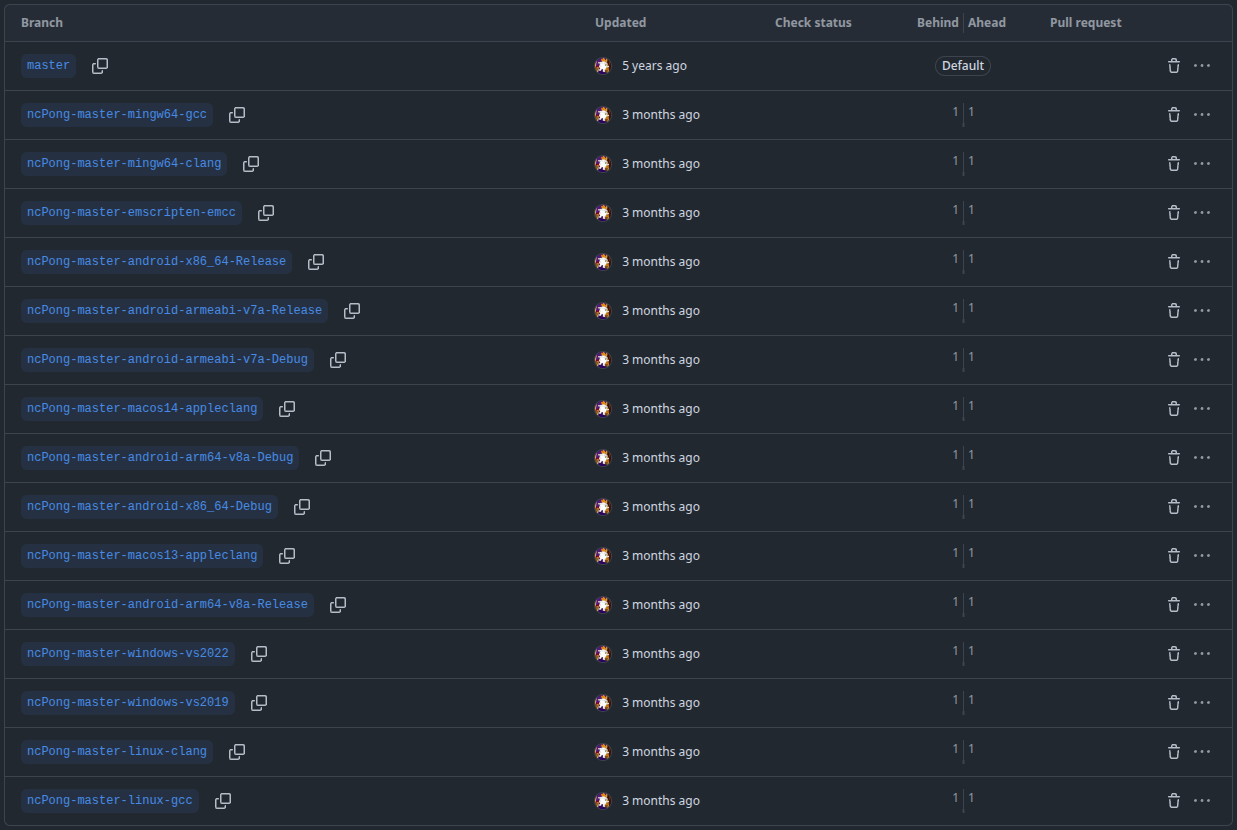
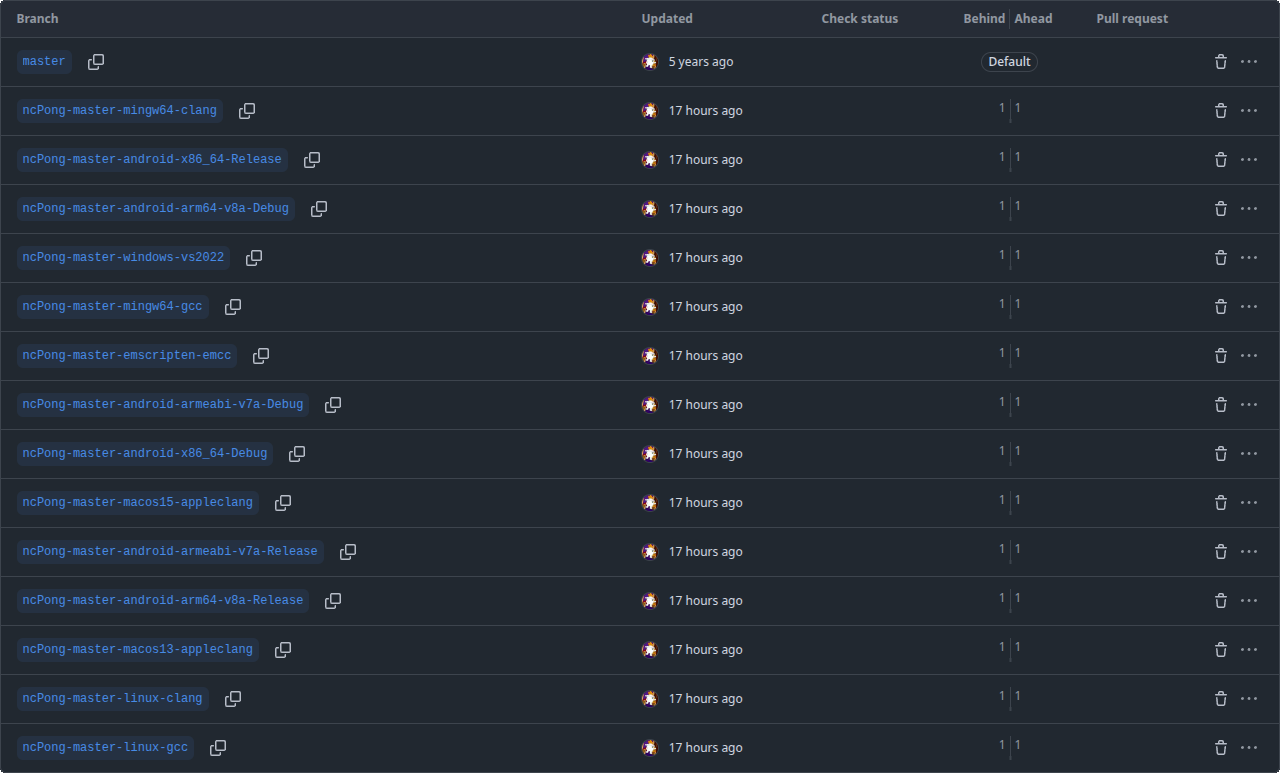
Add a new slide about smart pointer internals
- Update the continuous integration diagram and screenshot
- Add some new presenter notes
- Minor changes to the README and to some slides
- Update Slidev version in package.json

diff --git a/slides.md b/slides.md
@@ -105,6 +105,12 @@ layout: cover
 </figure>
 </div>
 
+<!-- When updating this presentation, remember to:
+  - Update the Slidev version in `package.json`
+  - Refresh the `cloc` output (lines of code statistics)
+  - Regenerate the Git history graphs
+-->
+
 ---
 
 ## What Is the nCine? ⚙
@@ -119,7 +125,8 @@ layout: cover
 - Based on a transformation scene graph and a node hierachy (no components)
 - A _learning opportunity_, both for me and for its users
 
-<!-- But not everything is a node like in Godot. -->
+<!-- But not everything is a node like in Godot.<br/>
+Linking the static or dynamic version of the library has implications on the exposed API. -->
 
 ---
 
@@ -266,7 +273,7 @@ Calculating my age is left as an exercise for the reader. 👴
 - I daydreamed about graphics and engine programming...
   - ...but what I actually did all day was GUI work for games 😞
 - I took destiny into my own hands! 💪
-  -  First "_encine2d_" commit on 19 June 2011 🗓 (<carbon-commit /> [6bf318de](https://github.com/nCine/nCine/commit/6bf318de))
+  - First "_encine2d_" commit on 19 June 2011 🗓 (<carbon-commit /> [6bf318de](https://github.com/nCine/nCine/commit/6bf318de))
   - Coming from CVS and SVN, I initially chose Mercurial and hosted on BitBucket
 - I deliberately neglected rendering to focus on everything else that makes an "engine"
 - I wrote "apptests" to stress-test the API as it evolved
@@ -813,7 +820,7 @@ RenderDoc showing degenerate vertices from <a href="https://github.com/nCine/nCi
 routeAlias: nctl
 ---
 
-## 💊 2018 - nCine Template Library (1/3)
+## 💊 2018 - nCine Template Library (1/4)
 
 - Arrays, atomics, hash functions, hashmaps, hashsets, lists, unique/shared pointers, sparse sets, strings
   - Most components are unit tested and benchmarked against the STL
@@ -847,7 +854,7 @@ From <a href="https://github.com/nCine/nCine/blob/master/include/nctl/type_trait
 
 ---
 
-## 💊 2018 - nCine Template Library (2/3)
+## 💊 2018 - nCine Template Library (2/4)
 
 <figure>
 
@@ -893,7 +900,7 @@ From <a href="https://github.com/nCine/nCine/blob/master/include/nctl/utility.h"
 
 ---
 
-## 💊 2018 - nCine Template Library (3/3)
+## 💊 2018 - nCine Template Library (3/4)
 
 <br/>
 <figure>
@@ -921,6 +928,41 @@ inline int distance(ForwardIterator &first, const ForwardIterator &last, Forward
 <figcaption class="left">
 Tag dispatching uses function overloading to choose the best implementation based on iterator type at compile time.<br/>
 From <a href="https://github.com/nCine/nCine/blob/master/include/nctl/iterator.h"><code>include/nctl/iterator.h</code> 🔗</a>
+</figcaption>
+</figure>
+
+---
+
+## 💊 2018 - nCTL: Smart Pointer Internals (4/4)
+
+- STL and nCTL smart pointers use the same memory as a raw pointer
+  - They rely on a compressed pair to store the pointer and its custom deleter
+  - Thanks to the _Empty Base Optimization_, a stateless deleter doesn't take up space
+  - nCTL includes a <a href="https://github.com/nCine/nCine/blob/master/unit_tests/gtest_uniqueptr.cpp">unit test</a> to verify there's no memory overhead
+
+<figure>
+
+```cpp
+/// Simple pair implementation for pointer and deleter
+template <class T1, class T2, bool value> struct PairImpl
+{
+    T1 first;
+    T2 second;
+    // ....
+};
+
+/// Specialization for empty second type
+template <class T1, class T2> struct PairImpl<T1, T2, true>
+{
+    T1 first;
+    // ...
+};
+
+template <class T1, class T2> using Pair = PairImpl<T1, T2, isEmpty<T2>::value>;
+```
+
+<figcaption>
+Compressed pair implementation with <code>isEmpty</code> type trait to enable EBO (<a href="https://github.com/nCine/nCine/blob/master/include/nctl/UniquePtr.h"><code>include/nctl/UniquePtr.h</code> 🔗</a>)
 </figcaption>
 </figure>
 
@@ -984,7 +1026,7 @@ routeAlias: sso
 ```cpp
 class String
 {
-// ...
+  // ...
   private:
     static const unsigned int SmallBufferSize = 16;
 
@@ -1494,7 +1536,7 @@ routeAlias: continuous_integration
 - One YAML script per supported platform in `.github/workflows/`
 - Projects upload a build artifact in the `projectName-artifacts` repository
   - This special repository has a branch per platform/compiler combination
-- The `nCine` workflow also builds and uploads the documentations (C++ and Lua)
+- The `nCine` workflow also runs the unit tests and builds the documentation (C++ and Lua)
 - The matrix of reproducible build combinations is impossible to manually test
 
 <br/>
@@ -1506,67 +1548,44 @@ routeAlias: continuous_integration
 
 ```mermaid {look: 'handDrawn', scale: 0.45}
 block-beta
-  block: platforms
+  block: platforms_compilers
     columns 1
-    title1["<strong>Platform</strong>"]
-    platform1("Linux")
-    space
-    platform2("Windows")
-    space
-    platform3("MinGW")
-    space
-    platform4("macOS 13")
-    platform5("macOS 14")
-    platform6("Android v7a")
-    platform7("Android v8a")
-    platform8("Android x86_64")
-    platform9("Emscripten")
-  end
-
-  block: compilers
-  columns 1
-    title2["<strong>Compiler</strong>"]
-    compiler1("GCC")
-    compiler2("Clang")
-    compiler3("Visual Studio 2019")
-    compiler4("Visual Studio 2022")
-    compiler5("GCC")
-    compiler6("Clang")
-    compiler7("Apple Clang")
-    compiler8("Apple Clang")
-    compiler9("Clang")
-    compiler10("Clang")
-    compiler11("Clang")
-    compiler12("Clang")
+    title1["<strong>Platform / Compiler</strong>"]
+    combination1("Linux / GCC")
+    combination2("Linux / Clang")
+    combination3("Windows / Visual Studio 2022")
+    combination4("MinGW / GCC")
+    combination5("MinGW / Clang")
+    combination6("macOS 13 / Apple Clang")
+    combination7("macOS 15 / Apple Clang")
+    combination8("Android v7a / Clang")
+    combination9("Android v8a / Clang")
+    combination10("Android x86_64 / Clang")
+    combination11("Emscripten / Clang")
   end
 
   space
 
   block: builds
     columns 1
-    title3["<strong>Build</strong>"]:1
-    space
+    title2["<strong>Build</strong>"]:1
     space
     build1("Release")
     space
-    space
     build2("Debug")
     space
-    space
     build3("DevDist")
-    space
     space
     build4("LuaDist")
   end
 
-  compilers --> build1
-  compilers --> build2
-  compilers --> build3
-  compilers --> build4
+  platforms_compilers --> build1
+  platforms_compilers --> build2
+  platforms_compilers --> build3
+  platforms_compilers --> build4
 
   style title1 stroke:#666,stroke-width:4px
   style title2 stroke:#666,stroke-width:4px
-  style title3 stroke:#666,stroke-width:4px
 ```
 
 <figcaption>The combinations matrix</figcaption>
@@ -1574,7 +1593,7 @@ block-beta
 </div>
 
 <div>
-<figure class="w-[85%]">
+<figure class="w-[95%]">
 <img src="/img/ncPong_artifact_branches.png" alt="ncPong artifact branches" />
 <figcaption>
 All the <a href="https://github.com/nCine/ncPong-artifacts/branches/all">branches</a> of the <code>ncPong-artifacts</code> repository
@@ -1785,6 +1804,8 @@ encelo@zephyrus ~/nCine $ cmake -S ncPong -B ncPong-build -D nCine_DIR=$PWD/nCin
 
 <figcaption>Example of CMake invocation to build the <strong>ncPong</strong> example game</figcaption>
 </figure>
+
+<!-- CMake also sets up compiler flags for debugging tools like sanitizers or the GNU profiler. -->
 
 ---
 
@@ -2385,13 +2406,13 @@ Tracy capture of <a href="https://github.com/nCine/nCine/blob/master/tests/appte
 ## 📸 2025 - Wet Paper
 
 - The GGJ game is still in development and will be a new showcase for users
-  - With custom shaders, statistics, load/save settings in TOML format, joystick vibration
+  - With custom shaders, statistics, load/save settings in TOML format, music, joystick vibration
   - A dogfooding experience to make nCine better (remember the Blender Open Movies?) 🐶
 
 <figure class="w-[70%]">
 <img src="/img/WetPaper.png" alt="Wet Paper" />
 <figcaption>
-<a href="https://github.com/encelo/wetpaper"><strong>Wet Paper</strong></a> with the custom refraction shader for bubbles
+<a href="https://github.com/encelo/wetpaper"><strong>Wet Paper</strong></a> with the custom <a href="https://blog.maximeheckel.com/posts/refraction-dispersion-and-other-shader-light-effects/">refraction shader</a> for bubbles
 </figcaption>
 </figure>
 

diff --git a/README.md b/README.md
@@ -2,7 +2,7 @@
 
 A [Slidev](https://sli.dev/) presentation about my 14 years of developing [nCine](https://ncine.github.io/).
 
-Presented in Rome on June 5th, 2025 for the [/dev/games](https://devgames.org) game developing conference.
+Original version presented in Rome on June 5th, 2025 for the [/dev/games](https://devgames.org) game developing conference.
 
 ## License
 
